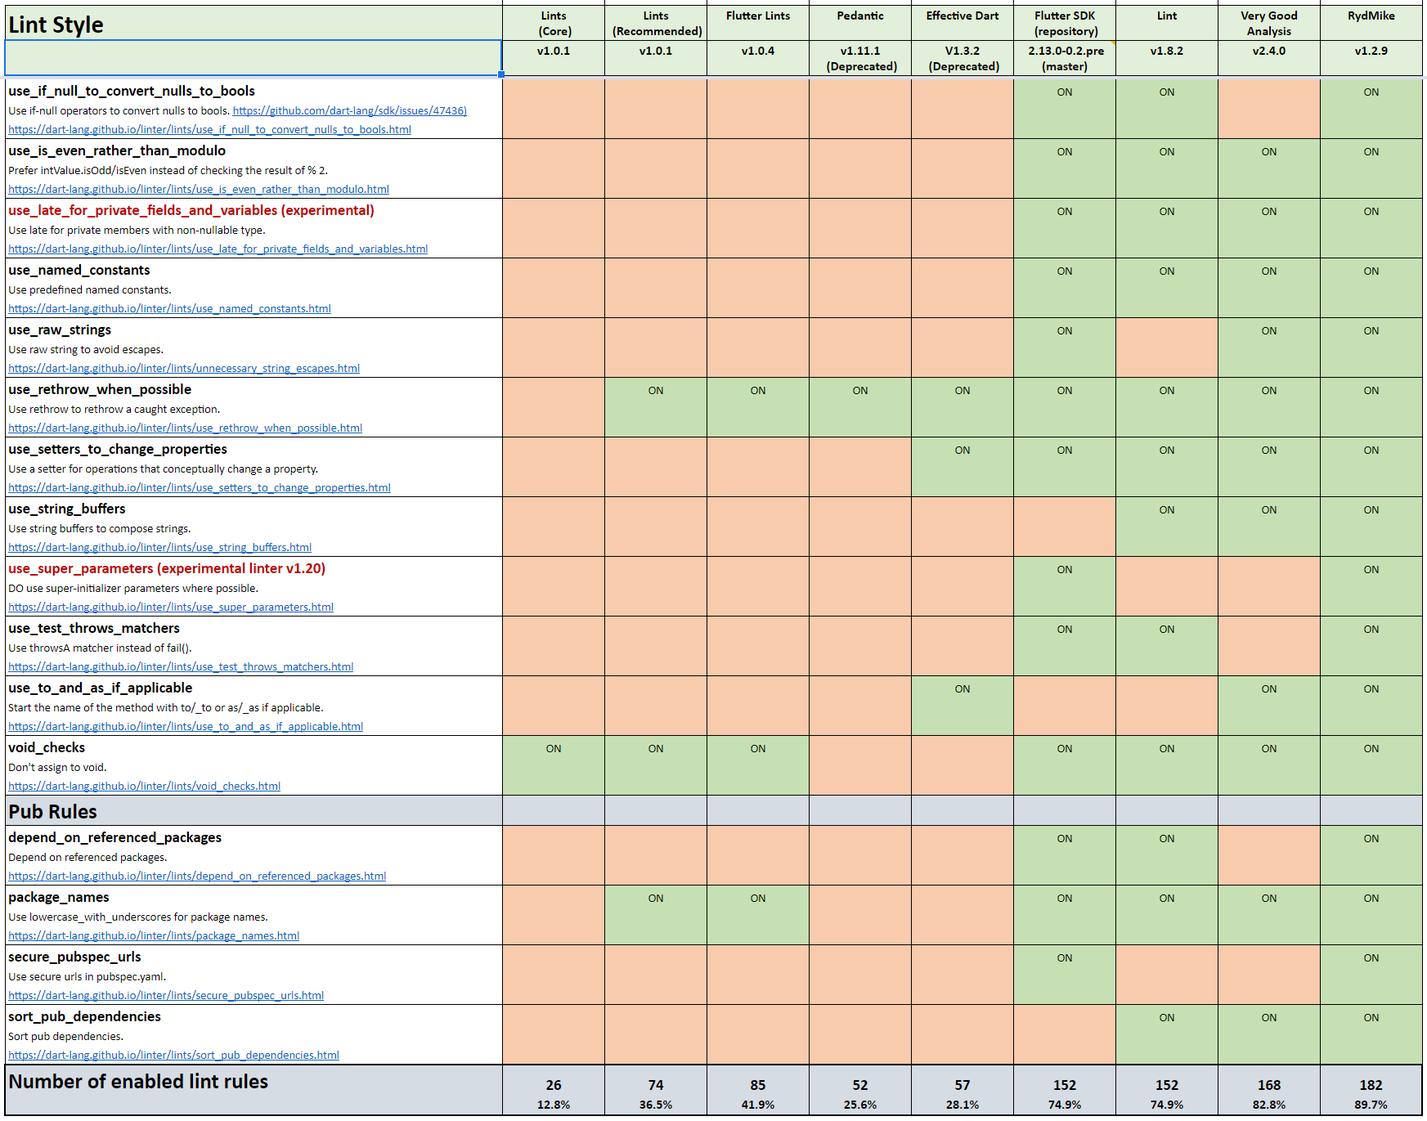
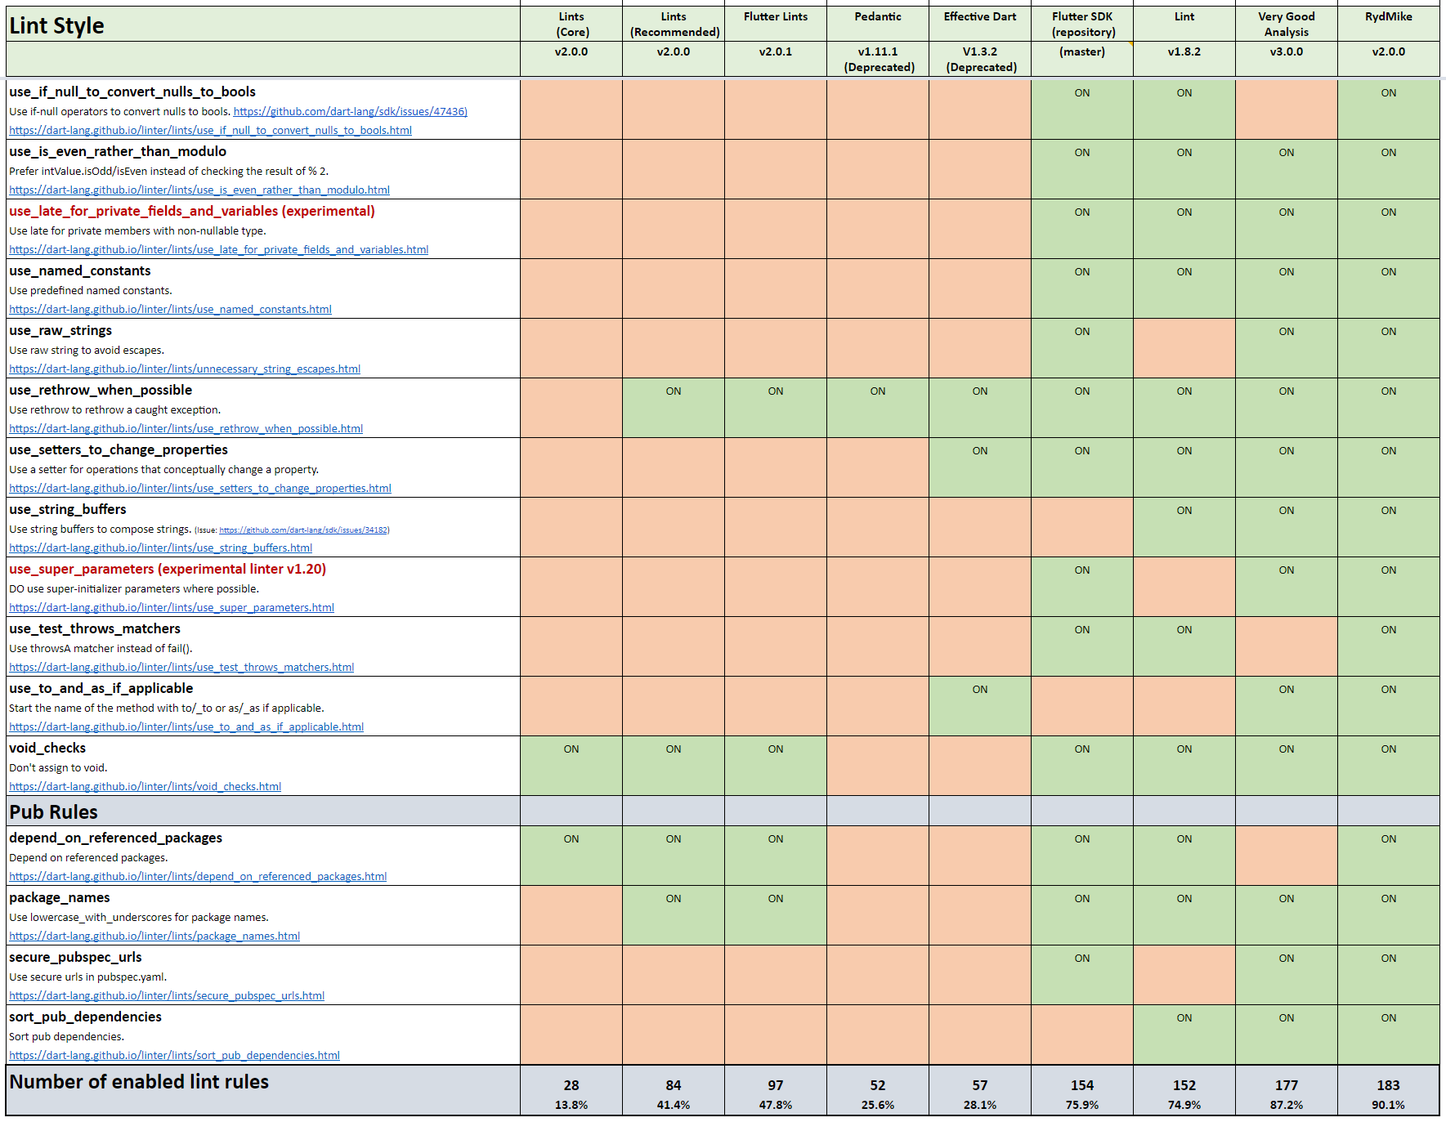
Update linting blog

diff --git a/blog_flutter_linting.md b/blog_flutter_linting.md
@@ -2,7 +2,9 @@
 | [Blog](blog)                | [FlexColorPicker](colorpicker) | [Grid](gridview) | [Talo](talo)         |
 
 # Flutter Linting Comparison
-*(Published July 28, 2021, Updated May 1, 2022)*
+*(Published July 28, 2021, Updated May 21, 2022)*
+
+> Updated May 19, 2022, to cover Flutter 3.0 and Dart 2.17 updated linters.
 
 Dart and Flutter linting is important, if you have not used it before it is a good idea to start now. At the end of this article I also present a comparison of different popular lint packages and the Dart and Flutter lint rules they use.
 
@@ -24,7 +26,10 @@ Personally I like to start by enabling all lint rules in one file, and then incl
 
 If you do not want to track the Dart lint site for updates to all available lint rules, there is also an excellent package made by [Gaëtan Schwartz @gaetschwartz](https://github.com/gaetschwartz) called [all_lint_rules_community](https://pub.dev/packages/all_lint_rules_community) that you can use to add all lint rules to your project, instead of adding and updating the file manually. The package is automatically updated when new lint rules are added to the Dart [all lint rules page](https://dart-lang.github.io/linter/lints/options/options.html) so all you have to do is bump the package version to get the latest list of all lint rules when the package has been updated. 
 
-Both the `analysis_options.yaml` and the `all_lint_rules.yaml` can be placed in the root of your Flutter project folder, same place where you have your `pubspec.yaml` file. In my `analysis_options.yaml` I include the `all_lint_rules.yaml` file. In `analysis_options.yaml` I also exclude commonly generated Dart files from being analyzed, and enable analyzer strong-mode. In strong mode, I disable implicit type casts and implicit dynamic. I highly recommend doing so. Coding with it might feel a bit tedious if you are used to dynamically typed languages, but it will save you from a bunch of potential gotchas in Dart code.
+Both the `analysis_options.yaml` and the `all_lint_rules.yaml` can be placed in the root of your Flutter project folder, same place where you have your `pubspec.yaml` file. In my `analysis_options.yaml` I include the `all_lint_rules.yaml` file. In `analysis_options.yaml` I also exclude commonly generated Dart files from being analyzed.
+
+I use the new Dart `language:` setting, where I set `strict-casts: true`, `strict-inference: true`, and `strict-raw-types: true`. These replace previous `strong-mode` settings `implicit-casts: false` and `implicit-dynamic: false`. See Dart documentation [Enabling stricter type checks](https://dart.dev/guides/language/analysis-options#enabling-additional-type-checks) for more information. 
+I highly recommend using these settings. 
 
 I lift common mistakes that I think should be errors, to error level. Then the analyzer won't even let me compile code with these mistakes. So I set it to flag missing return and missing required parameters as errors, not as warnings or info. I keep parameter re-assignments as only a warning though, there are occasions when it may be needed, but I want a warning, so I can consider a rewrite of it, or on a case by case ignore the warning after consideration.
 
@@ -32,7 +37,7 @@ My `analysis_options.yaml` file starts like this:
 
 
 ```yaml
-# RydMike LINTER Preferences v1.2.9
+# RydMike LINTER Preferences v2.0.0
 #
 # Get this file here: https://gist.github.com/rydmike/fdb53ddd933c37d20e6f3188a936cd4c
 #
@@ -135,7 +140,7 @@ I documented the choices I made, and the reasoning behind the choices at the poi
 
 [Here is a Gist](https://gist.github.com/rydmike/fdb53ddd933c37d20e6f3188a936cd4c) with the full details of the settings I use in `analysis_options.yaml` for my personal projects.
 
-I might change a few settings as things evolve. One rule I found myself disliking recently and disabling, is the `sort_constructors_first`. Sounds like it is a fine rule, right? For the default constructor I agree, I want it first too. However, **after that** I want to see all the properties of the default constructor, with their documentation comments. I find this useful for more complex packages that may have constructors with a lot of named parameters.
+I might change a few settings as things evolve. One rule I found myself disliking and disabling, is the `sort_constructors_first`. Sounds like it is a fine rule, right? For the default un-named constructor I agree, I want it first too. There is a separate lint for that, that I do use, it is called `sort_unnamed_constructors_first`. However, **after that** I want to see all the properties of the default constructor, with their documentation comments. I find this useful for more complex classes that may have many named constructors or factories with a lot of named parameters.
 
 If the `sort_constructors_first` rule is enabled, I am forced to use an order where I have to scroll far down to find the properties much further below, after all the named constructors and factories. I find this very inconvenient. This is another minor example of personal style preference. There are many lint rules that are style and code consistency related. Get to know them and find your own personal preferences.
 
@@ -179,63 +184,70 @@ There is nothing wrong with using any of these packages if they fit your needs. 
 
 For my personal projects I just prefer the clarity of enabling all rules in one file, and then disabling the ones that do not fit my use case and preferences. 
 
-Earlier I started with one of the above packages too, but I noticed that when I needed or wanted to modify a few rules. I then ended up with **enabling or disabling** rules in relation to used package settings. This got a bit messy to keep track of. Eventually it felt cleaner to just turn everything ON, and then just have OFF definitions in my `analysis_options.yaml`. Super simple, clear and easy to modify when needed, without messing things up.
-Plus no need for a package for this relatively simple setup.
+Earlier I started with one of the above packages too, but I noticed that when I needed or wanted to modify a few rules. I then ended up with **enabling or disabling** rules in relation to used package settings. This got a bit messy to keep track of. Eventually it felt cleaner to just turn everything ON, and then just have OFF definitions in my `analysis_options.yaml`. Super simple, clear and easy to modify when needed, without messing things up. Plus no need for a package for this relatively simple setup.
 
 In a big project the lint rules have probably been agreed and defined already for you, then just stick to that. If you find that the lint rules have not been defined, nor documented why they are a certain way in the project, well then they really should be.
 
 ## Which Lint Package Should I Use?
 
-If I want to use a package, which lint package should I use? Answering this question got a lot easier with Flutter 2.5. First, both the package
-[Effective Dart](https://pub.dev/packages/effective_dart) and [Pedantic](https://pub.dev/packages/pedantic) have been deprecated. For a new project I do not recommend them anymore. 
+If I want to use a package, which lint package should I use? 
 
-The Pedantic package from Google was originally intended mostly for their internal use. Despite its name, it was not very strict nor pedantic. It started as a minimum set they could agree on internally for Dart projects.
+Answering this question got a lot easier when Flutter 2.5 was released. 
 
-Starting from Flutter 2.5.0 Dart and Flutter teams launched two new lint packages that are used as default when you make a new Flutter package. Let us take a look at them.
+To start, both the package [Effective Dart](https://pub.dev/packages/effective_dart) and [Pedantic](https://pub.dev/packages/pedantic) have been **deprecated**. For a new project, do not use them, and consider migrating applications and packages that used them, to recommended alternatives further below. The Pedantic package from Google was originally intended mostly for their internal use. Despite its name, it was not very strict nor pedantic at all. It was used as a minimum set they could agree on internally for Dart projects.
+
+Starting from Flutter version 2.5, Flutter and Dart use two new linting packages that are enabled by default when you create a new Flutter project. With the launch of Flutter 3, the used lint packages were updated to version 2, and include more Dart related rules than the rule set in version 1. When you create a new Flutter project with Flutter version 3.0.0 or later, you get version 2 linting rules enabled by default.
 
 ### Lints
-The first one is called [Lints](https://pub.dev/packages/lints). It was launched as version 1.0.0 on May 12, 2021. This package contains the new official recommended selection of lint rules for **Dart** projects.
+
+The first Flutter used linting package is called [`lints`](https://pub.dev/packages/lints). It was launched as version 1.0.0 on May 12, 2021. This package contains the new official recommended selection of lint rules for **Dart** projects. With release of Dart 2.17 and Flutter 3, it was bumped to version 2.0.0.
 
 It comes in two flavors, the absolute minimum lints, called **Core lints**, and a broader set called **Recommended lints**. The recommended set also includes the core lints. In the Dart guide you can read more about it [here](https://dart.dev/guides/language/analysis-options#enabling-linter-rules).
 
 ### Flutter lints
 
-The second package is called [Flutter lints](https://pub.dev/packages/flutter_lints), It was also launched as version 1.0.0 on May 12, 2021. The Flutter lints package includes the recommended set from Dart lints, plus a few more rules that are important in Flutter projects. These Dart and Flutter lint rule sets are built as supersets, with increasing amount of rules enabled.
+The second package is called [Flutter lints](https://pub.dev/packages/flutter_lints). It was also launched as version 1.0.0 on May 12, 2021. The `flutter_lints` package includes the recommended set from Dart `lints`, plus a few more rules that are important in Flutter projects. These Dart and Flutter lint rule sets, are built as supersets with increasing amount of rules enabled.
 
-Starting from Flutter version 2.3.0-12.0.pre and included in stable 2.5.0 and later versions, the package [Flutter lints](https://pub.dev/packages/flutter_lints) defines the latest set of officially recommended lints that encourage good coding practices for **Flutter** apps, packages, and plugins.
+Starting from Flutter version 2.3.0-12.0.pre and included in stable 2.5.0 and later versions, the package [`flutter_lints`](https://pub.dev/packages/flutter_lints) defines the latest set of officially recommended lints that encourage good coding practices for **Flutter** apps, packages, and plugins.
 
-Projects created with **flutter create** using Flutter **version 2.3.0-12.0.pre or newer**, and thus also in stable 2.5.0 and later, are automatically setup to use the **Flutter lints** package. 
+Projects created with **flutter create** using Flutter **version 2.3.0-12.0.pre or newer**, and thus also in stable 2.5.0 and later, are automatically setup to use the **Flutter lints** package. When creating a Flutter project with Flutter 3.0.0 or later, the used `flutter_lints` linting package level is bumped to version 2.0.0, that also uses `lints` 2.0.0.
 
 You can find the instructions [here](https://flutter.dev/docs/release/breaking-changes/flutter-lints-package).
 
-Since this lint rule set is the new default lint package for new Flutter projects, there is no major reason to recommend any other linter package than [Flutter lints](https://pub.dev/packages/flutter_lints) as a general good starting point. However, if you want more and much stricter rules, there are two good options, in addition to rolling your own setup.
+Since this lint rule set is the new default lint package for new Flutter projects, there is no major reason to recommend any other linter package than [`flutter_lints`](https://pub.dev/packages/flutter_lints) as a general good starting point. **However**, if you want more and stricter rules, there are two good options, in addition to rolling your own setup.
 
 ### Other Packaged Linters
 
 Both [Lint](https://pub.dev/packages/lint) and [Very Good Analysis](https://pub.dev/packages/very_good_analysis) are very solid choices offering much tighter linting rule sets than Flutter lints.
 
-They both enable more and even stricter lint rules than the new default **flutter_lints**. Both **lint** and **very_good_analysis** use strong mode and disable implicit casts. Very Good Analysis also wisely opts to disable implicit dynamic. 
+They both enable more and stricter lint rules than the new default **flutter_lints**. Both **lint** and **very_good_analysis** use strong mode and disable implicit casts. Very Good Analysis also wisely opts to disable implicit dynamic. 
 
-From package version 2.3.0 Very Good Analysis (VGA) also started treating missing required parameters and missing return, as code errors. I consider this
-a wise and welcome addition. From version 1.8.1 the **lint** package does this as well, it even adds treating function parameter new value assignments as warnings, bringing its strictness even higher than VGA in this respect. 
+Neither of the packages have yet been updated to use the new Dart `language:` setting, with `strict-casts: true`, `strict-inference: true`, and `strict-raw-types: true`. These settings replace previous `strong-mode` settings `implicit-casts: false` and `implicit-dynamic: false`. See Dart documentation [Enabling stricter type checks](https://dart.dev/guides/language/analysis-options#enabling-additional-type-checks) for more information. The Flutter repo for example uses the newer `language` settings, it is recommended to use them over the older `strong-mode` settings. Most likely Lint and VGA will be updated in the near future to do so.
 
-The **lint** package includes excellent reasoning documentation for its lint rule choices in the source, allowing you to read and understand the author's rationale for the used choices. It also comes with a variant for packages, adding a few more useful rules for public packages. This is actually a very good feature if you write packages. Some of those rules are not so useful or even get in the way when you write applications, but important when you write packages to help your package get a higher score on pub.dev. 
+From package version 2.3.0 Very Good Analysis (VGA) also started treating missing required parameters and missing return, as code errors. I consider this a wise and welcome addition. From version 1.8.1 the **lint** package does this as well, it even adds treating function parameter new value assignments as warnings, bringing its strictness even higher than VGA in this respect. 
 
-I also find it interesting to follow what lint rules the Flutter SDK repo uses. Recently there has been many new rules enabled in the Flutter SDK as well.In the older version (1.4.0) of the comparison table from September 10, 2021, to the current one (1.7.0), the Flutter repo (master channel) has gone from 129 to 152 enabled lint rules.
+The **lint** package includes excellent reasoning documentation for its lint rule choices in the source, allowing you to read and understand the author's rationale for the used choices. It also comes with a variant for packages, adding a few more useful rules for public packages. This is actually a very good feature if you write packages. Some of those rules are not so useful or even get in the way when you write applications, but are important when you write packages to help your package get a higher score on pub.dev. 
 
-Out of the packaged linters **very_good_analysis**, enables the highest number of lint rules of the compared packaged linters. With 82.8% of available lint rules enabled in packages version 2.4.0, it is the most strict and "pedantic" of the compared packaged linters, at least if I exclude my own custom setup from the comparison. 
+Out of the packaged linters **very_good_analysis**, enables the highest number of lint rules of the compared packaged linters. With 177 rules, or 87.2% of available lint rules enabled in package version 3.0.0, it is the most strict and pedantic of the compared packaged linters. The **lint** package is not far behind. With its 1.8.2 version, it is at 152 rules, or 74.9% of lint rules enabled. 
 
-The **lint** package is not far behind. With its 1.8.2 version it is at 74.9% of lint rules enabled. The difference is really minor and matter of taste at this level of lints enabled. 
+Both packages track development of new Dart and Flutter lint rules actively and are updated regularly. They both enable all critical and important rules. Both are excellent choices if you want stricter linting than Flutter offers out of the box and don't want to track and maintain the rule set yourself, and would rather just update a package dependency to update your linting game. 
 
-Both packages track development of new Dart and Flutter lint rules actively and are updated regularly and enable all critical and important rules. Both are excellent choices if you want stricter linting than Flutter offers out of the box and don't want to track and maintain the rule set yourself, and would rather just update a package dependency to update your linting game.
+Personally I would choose **very_good_analysis** over **lint**, mostly because it is stricter, but also because it is a bit more actively maintained, it has for example adopted new Flutter 3 and Dart 2.17 linting rules quicker. Both are still excellent choices, and sometimes a slower update pace of your static analyzer rules might be what you prefer.
 
-You can use my comparison table to compare popular lint setups and the rules they enable and make your own preferred choice based on it.
+### Flutter Repository
 
-If you want to stay on top of your linting rule setup yourself, then do as I do. Roll your own linting rule configuration. Mostly I do this to use even stricter lint rules than current package linters offer, and to make the opinionated choices I prefer. Most lint packages on purpose avoid making any choice for you when it comes to highly opinionated personal preferences rules.
+I also find it interesting to follow what linting rules the Flutter SDK repo uses. Recently there has been many new rules enabled in the Flutter SDK as well. Compared the older version 1.4.0 of the comparison table, from September 10, 2021, to the current one (1.7.0), the Flutter repo (master channel) has gone from 129 (67.2%) to 152 (74.9%) enabled lint rules.
+
+
+### Compare and choose
+
+You can use my comparison table to compare popular linting setups, the rules they enable and make your own choice based on it.
+
+If you want to stay on top of your linting rule setup yourself, then do as I do, roll your own linting rule configuration! Mostly I do this to use even stricter lint rules than current package linters offer, and also to make the opinionated choices I prefer. Most lint packages on purpose avoid making any choice for you when it comes to highly opinionated personal preferences rules.
 
 I also like the clean setup of enabling all rules in one file, by include all currently available rules and then only turning OFF the rules I don't use. This keeps the setup easy to maintain. Feel free to do the same **or** take the easy route and just use default [Flutter lints](https://pub.dev/packages/flutter_lints) or walk the narrow and strict path with [Very Good Analysis](https://pub.dev/packages/very_good_analysis) or [Lint](https://pub.dev/packages/lint).
 
-If you don't care about linting and tuning it yourself, the really nice part is that a good basic linting setup is now part of Flutter. Starting from version 2.5.0 you get a solid rule set enabled by default for new projects. It is a really cool and a smart move by the Dart and Flutter teams to offer this. It means that eventually all Flutter developers will use more strict lint rules by default, rules that will help improve the quality of produced Flutter apps and packages.
+If you don't care about linting and tuning it yourself, the nice part is that a good basic linting setup is a part of Flutter. Starting from Flutter version 2.5.0 you get a solid rule set enabled by default for new projects. It is a really cool and a smart move by the Flutter team to offer this. It means that eventually all Flutter projects will use linting rules by default, rules that will help improve the quality of produced Flutter apps and packages.
 
 ## What Are the Rule Differences Between All These Packages?
 
@@ -243,18 +255,18 @@ What are the lint rule differences between all these packages? That is a **very*
 
 | Lint style   | Previous             |  % of rules | Used now | +/- | % of rules |
 | ----         | ----                   | ---- | ---- | ---- |  ---- |
-|[Dart Core *(v1.0.1)*](https://pub.dev/packages/lints) | 26 | 13.5%| 26 | 0 | 12.8% |
-|[Dart Recommended *(v1.0.1)*](https://pub.dev/packages/lints) | 74 | 38.5% | 74 | 0 | 36.5% |    
-|[Flutter lints *(v1.0.4)*](https://pub.dev/packages/flutter_lints) | 85 | 44.3% | 85 | 0 | 41.9 % | 
+|[Dart Core *(v2.0.0)*](https://pub.dev/packages/lints) | 26 | 13.5%| 28 | +1 | 13.8% |
+|[Dart Recommended *(v2.0.0)*](https://pub.dev/packages/lints) | 74 | 38.5% | 84 | +10 | 41.4% |    
+|[Flutter lints *(v1.0.4)*](https://pub.dev/packages/flutter_lints) | 85 | 44.3% | 97 | +12 | 47.8 % | 
 |[Pedantic *(v1.11.1) (Deprecated)*](https://pub.dev/packages/pedantic) | 52 | 27.1% | 52 | 0 | 25.6% |
 |[Effective Dart *(v1.3.2) (Deprecated)*](https://pub.dev/packages/effective_dart) | 57 | 29.7% | 57 | 0 | 28.1% |
 |[Flutter SDK repository *(v2.13.0-0.2.pre)*](https://github.com/flutter/flutter/blob/master/analysis_options.yaml) | 129 | 67.2% | 152 | +23 | 74.9% | 
 |[Lint *(v1.8.2)*](https://pub.dev/packages/lint) | 147 | 76.6% | 152 | +5 | 74.9% |
-|[Very Good Analysis *(v2.4.0)*](https://pub.dev/packages/very_good_analysis) | 153 | 79.7% | 168 | +15 | 82.8% |
-|[RydMike - All ON, then turn OFF some *(v1.2.9)*](https://gist.github.com/rydmike/fdb53ddd933c37d20e6f3188a936cd4c) | 171 | 89.1%| 182 | +11 | 89.7% |
+|[Very Good Analysis *(v3.0.0)*](https://pub.dev/packages/very_good_analysis) | 153 | 79.7% | 177 | +24 | 87.2% |
+|[RydMike - All ON, then turn OFF some *(v2.0.0)*](https://gist.github.com/rydmike/fdb53ddd933c37d20e6f3188a936cd4c) | 171 | 89.1%| 183 | +12 | 90.1% |
 |[All LINT rules](https://dart-lang.github.io/linter/lints/options/options.html) | 192 | 100.0% | 203 | +11 | 100.0% |
 
-The "previous" values refer to the number of enabled lint rules in comparison table version 1.4.0 from September 10, 2021, and "used now" to the latest lint rules in comparison table, version 1.7.0 updated April 26, 2022.
+The "previous" values refer to the number of enabled lint rules in comparison table version 1.4.0 from September 10, 2021, and rules used now in the latest lint rules in comparison table, which is version 2.0.0 updated May 21, 2022.
 
 Here is the full comparison in a [**Google Sheet**](https://docs.google.com/spreadsheets/d/1Nc1gFjmCOMubWZD7f2E4fLhWN7LYaOE__tsA7bf2NjA), enjoy!
 
@@ -268,4 +280,4 @@ Here is the full comparison in a [**Google Sheet**](https://docs.google.com/spre
 If you want to go even deeper into Dart code analysis, I recommend taking a look at [Dart Code Metrics](https://dartcodemetrics.dev/). A static analysis tool that helps you analyze and improve your Dart code quality. It collects analytical data on the code through calculating code metrics with configurable thresholds and provides additional rules for the Dart analyzer.
 
 ---
-*(Page updated May 1, 2022)*
+*(Page updated May 21, 2022)*

diff --git a/blog.md b/blog.md
@@ -37,7 +37,7 @@ The Flutter `ThemeData` object defines the look of your application, and to a de
 
 ---
 ## [Flutter Linting Comparison](blog_flutter_linting)
-*(Jul 28, 2021, Updated May 1, 2022)*
+*(Jul 28, 2021, Updated May 21, 2022)*
 
 Dart and Flutter linting is important, if you have not used it before it is a good idea to start now. At the end of this article I also present a comparison of different popular lint packages and the Dart and Flutter lint rules they use. [[**Read more...**]](blog_flutter_linting)
 
